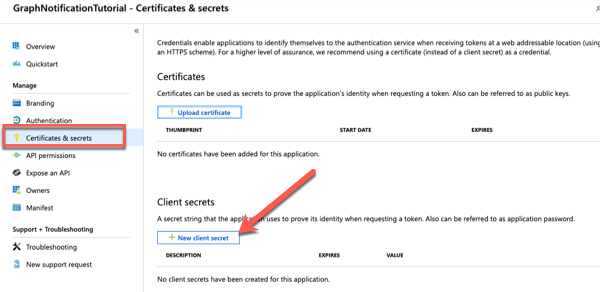
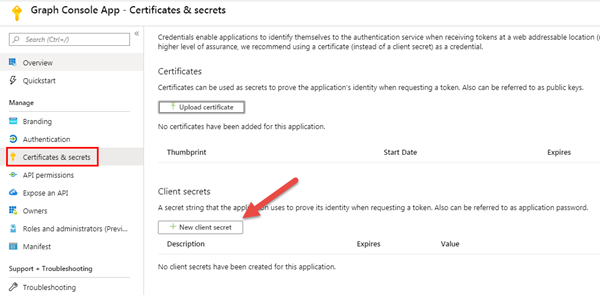
M365dev msgraph getting started fy2020q2 refresh
- fixed typos
- updated screenshots to current UX

diff --git a/learn-m365-pr/m365-developer/optimize-data-usage/includes/3-exercise-retrieve-control-information-returned-from-microsoft-graph.md b/learn-m365-pr/m365-developer/optimize-data-usage/includes/3-exercise-retrieve-control-information-returned-from-microsoft-graph.md
@@ -24,7 +24,7 @@ On the **Register an application** page, set the values as follows:
 
     Select **Register**.
 
-On the **GraphNotificationTutorial** page, copy the value of the **Application (client) ID** and **Directory (tenant) ID**; you will need them later in this exercise.
+On the **Graph Console App** page, copy the value of the **Application (client) ID** and **Directory (tenant) ID**; you will need them later in this exercise.
 
   ![Screenshot of the application ID of the new app registration](../media/aad-portal-newapp-details.png)
 
@@ -35,10 +35,6 @@ Select **New client secret**.
 ![Screenshot of the Add a client secret dialog](../media/aad-portal-newapp-secret.png)
 
 On the **Add a client secret** page, enter a value in **Description**, select one of the options for **Expires** and select **Add**.
-
-![Screenshot of the Add a client secret dialog](../media/aad-portal-newapp-secret-02.png)
-
-Copy the client secret value before you leave this page. You will need it in the next step.
 
   > [!IMPORTANT]
   > This client secret is never shown again, so make sure you copy it now.
@@ -67,7 +63,13 @@ When prompted for the type of permission, select **Application permissions**.
 
 Enter **User.R** in the **Select permissions** search box and select the **User.Read.All** permission, followed by the **Add permission** button at the bottom of the panel.
 
-At the bottom of the **API Permissions** panel, select the button **Grant admin consent for [tenant]**, followed by the **Yes** button to grant all users in your organization this permission.
+In the **Configured Permissions** panel, select the button **Grant admin consent for [tenant]**.
+
+![Screenshot of the Configured permissions panel](../media/aad-portal-newapp-permissions-05.png)
+
+In the consent dialog popup, select the **Accept** button to grant all users in your organization this permission.
+
+![Screenshot of the consent dialog](../media/aad-portal-newapp-permissions-06.png)
 
 ## Create .NET Core console application
 
@@ -94,7 +96,7 @@ Open the application in Visual Studio Code using the following command:
 code .
 ```
 
-If Visual Studio code displays a dialog box asking if you want to add required assets to the project, select **Yes**.
+If Visual Studio Code displays a dialog box asking if you want to add required assets to the project, select **Yes**.
 
 ### Update the console app to support Azure AD authentication
 
@@ -105,7 +107,7 @@ Create a new file named **appsettings.json** in the root of the project and add 
   "tenantId": "YOUR_TENANT_ID_HERE",
   "applicationId": "YOUR_APP_ID_HERE",
   "applicationSecret": "YOUR_APP_SECRET_HERE",
-  "redirectUri": "YOUR_REDIRECT_URI_HERE"
+  "redirectUri": "https://localhost"
 }
 ```
 
@@ -114,7 +116,6 @@ Update properties with the following values:
 - `YOUR_TENANT_ID_HERE`: Azure AD directory ID
 - `YOUR_APP_ID_HERE`: Azure AD client ID
 - `YOUR_APP_SECRET_HERE`: Azure AD client secret
-- `YOUR_REDIRECT_URI_HERE`: redirect URI you entered when creating the Azure AD app (*for example, https://localhost*)
 
 #### Create helper classes
 
@@ -189,10 +190,9 @@ namespace Helpers
 
 ### Incorporate Microsoft Graph into the console app
 
-Open the **Program.cs** file and add the following `using` statements to the top fo the file:
+Open the **Program.cs** file and add the following `using` statements to the top of the file:
 
 ```cs
-using System;
 using System.Collections.Generic;
 using Microsoft.Identity.Client;
 using Microsoft.Graph;
@@ -321,14 +321,12 @@ When the application runs, you'll see a list of users displayed. The query retri
 
 The current console application isn't efficient because it retrieves all information about all users in your organization but only displays three properties. The `$select` query parameter can limit the amount of data that is returned by Microsoft Graph, optimizing the query.
 
-Update the line that starts with `var results = client.Users` in the `Main` method with the following to limit the query to just two properties:
+Update the line that starts with `var graphRequest = client.Users` in the `Main` method with the following to limit the query to just two properties:
 
 ```cs
-var results = client.Users
+var graphRequest = client.Users
                     .Request()
-                    .Select(u => new { u.DisplayName, u.Mail })
-                    .GetAsync()
-                    .Result;
+                    .Select(u => new { u.DisplayName, u.Mail });
 ```
 
 Rebuild and rerun the console application by executing the following commands in the command line:
@@ -342,15 +340,13 @@ Now you see the `Id` property isn't populated with data as it wasn't included in
 
 ![Screenshot of the console application with the $select query parameters](../media/app-run-02.png)
 
-Let us further limit the results to just the first 15 results. Update the line that starts with `var results = client.Users` in the `Main` method with the following:
+Let us further limit the results to just the first 15 results. Update the line that starts with `var graphRequest = client.Users` in the `Main` method with the following:
 
 ```cs
-var results = client.Users
+var graphRequest = client.Users
                     .Request()
                     .Select(u => new { u.DisplayName, u.Mail })
-                    .Top(15)
-                    .GetAsync()
-                    .Result;
+                    .Top(15);
 ```
 
 Rebuild and rerun the console application by executing the following commands in the command line:
@@ -364,16 +360,14 @@ dotnet run
 
 Notice only 15 items are now returned by the query.
 
-Sort the results in reverse alphabetic order. Update the line that starts with `var results = client.Users` in the `Main` method with the following:
+Sort the results in reverse alphabetic order. Update the line that starts with `var graphRequest = client.Users` in the `Main` method with the following:
 
 ```cs
-var results = client.Users
+var graphRequest = client.Users
                     .Request()
                     .Select(u => new { u.DisplayName, u.Mail })
                     .Top(15)
-                    .OrderBy("DisplayName desc")
-                    .GetAsync()
-                    .Result;
+                    .OrderBy("DisplayName desc");
 ```
 
 Rebuild and rerun the console application by executing the following commands in the command line:
@@ -385,18 +379,15 @@ dotnet run
 
 ![Screenshot of the console application with the $orderby query parameters](../media/app-run-04.png)
 
-Further refine the results by selecting Users who's surname starts with A, B, or C. You'll need to remove the `$orderby` query parameter added previously as the Users endpoint doesn't support combining the `$filter` and `$orderby` parameters. Update the line that starts with `var results = client.Users` in the `Main` method with the following:
+Further refine the results by selecting Users who's surname starts with A, B, or C. You'll need to remove the `$orderby` query parameter added previously as the Users endpoint doesn't support combining the `$filter` and `$orderby` parameters. Update the line that starts with `var graphRequest = client.Users` in the `Main` method with the following:
 
 ```cs
-new QueryOption("$filter","startsWith(surname,'A') or startsWith(surname,'B') or startsWith(surname,'C')")
-var results = client.Users
+var graphRequest = client.Users
                     .Request()
                     .Select(u => new { u.DisplayName, u.Mail })
                     .Top(15)
                     // .OrderBy("DisplayName desc)
-                    .Filter("startsWith(surname,'A') or startsWith(surname,'B') or startsWith(surname,'C')")
-                    .GetAsync()
-                    .Result;
+                    .Filter("startsWith(surname,'A') or startsWith(surname,'B') or startsWith(surname,'C')");
 ```
 
 Rebuild and rerun the console application by executing the following commands in the command line:

diff --git a/learn-m365-pr/m365-developer/optimize-data-usage/includes/4-expand-related-entities-search-content-microsoft-graph.md b/learn-m365-pr/m365-developer/optimize-data-usage/includes/4-expand-related-entities-search-content-microsoft-graph.md
@@ -11,7 +11,7 @@ Normally, you can query either the properties of a resource or one of its relati
 The `$expand` operator, can be used to expand a collection of items, saving you from issuing additional requests.
 
 ```http
-https://graph.microsoft.com/v1.0/me/drive/root/$expand=children
+https://graph.microsoft.com/v1.0/me/drive/root?$expand=children
 ```
 
 In this example, you've requested Microsoft Graph to automatically include the children collection from the drive/root endpoint. The response will include all the default properties for the collection of files and folders within the root folder of the user’s OneDrive.
@@ -35,7 +35,7 @@ Another optimization option supported by Microsoft Graph is use of the `$filter`
 The syntax of the `$filter` query parameter follows the format of passing in an equality function with two parameters. The first parameter is the field to filter while the second parameter is the value to filter on.
 
 ```http
-https://graph.microsoft.com/v1.0/users?$filter=eq(displaName,’Bowen’)
+https://graph.microsoft.com/v1.0/users?$filter=displayName eq 'Megan Bowen'
 ```
 
 Most logical operators are supported, such as:
@@ -53,7 +53,7 @@ Most logical operators are supported, such as:
 The operator `startswith()` is supported by most endpoints in Microsoft Graph, but not all. Refer to the documentation for Microsoft Graph for full details.
 
 ```http
-https://graph.microsoft.com/v1.0/users?$filter=startswith(displayName,’J’)
+https://graph.microsoft.com/v1.0/users?$filter=startswith(displayName,'J')
 ```
 
 ## Find entities with search
@@ -61,8 +61,8 @@ https://graph.microsoft.com/v1.0/users?$filter=startswith(displayName,’J’)
 Developers can also use the `$search` query parameter to search for content against the people & message endpoints.
 
 ```http
-https://graph.microsoft.com/v1.0/users?$search=“wilke”
-https://graph.microsoft.com/v1.0/users?$search=“body:exciting”
+https://graph.microsoft.com/v1.0/me/contacts?$search="wilke"
+https://graph.microsoft.com/v1.0/me/messages?$search="body:Northwind"
 ```
 
 Search is limited to returning 250 results.
@@ -72,11 +72,11 @@ Search can't be combined with the `$filter` or `$orderby` operators.
 When searching against the messages endpoint, if no property is specified, it defaults to searching the **from**, **subject**, and **body** property. You can search on specific fields as well, such as the **cc** property:
 
 ```http
-https://graph.microsoft.com/v1.0/users?$search=“cc:wilke”
+https://graph.microsoft.com/v1.0/me/messages?$search="cc:wilke"
 ```
 
 Like the `$filter` query parameter, the `$search` query parameter can be combined with the `$select` query parameter to limit the data returned.
 
 ```http
-https://graph.microsoft.com/v1.0/users?$search=“cc:wilke”&$select=subject,toRecipients
+https://graph.microsoft.com/v1.0/me/messages?$search="cc:wilke"&$select=subject,toRecipients
 ```

diff --git a/learn-m365-pr/m365-developer/optimize-data-usage/includes/5-exercise-expand-related-entities-search-content-microsoft-graph.md b/learn-m365-pr/m365-developer/optimize-data-usage/includes/5-exercise-expand-related-entities-search-content-microsoft-graph.md
@@ -31,7 +31,7 @@ When prompted for the type of permission, select **Application permissions**.
 
 Enter **Group.R** in the **Select permissions** search box and select the **Group.Read.All** permission, followed by the **Add permission** button at the bottom of the panel.
 
-At the bottom of the **API Permissions** panel, select the button **Grant admin consent for [tenant]**, followed by the **Yes** button to grant all users in your organization this permission.
+In the **Configured Permissions** panel, select the button **Grant admin consent for [tenant]**, and then select the **Accept** button in the consent dialog popup to grant all users in your organization this permission.
 
 ### Update the console app to use the $expand query parameter
 
@@ -39,15 +39,7 @@ You'll modify the code that follows this line to obtain a list of all groups in 
 
 Open the .NET console app in Visual Studio Code and then open the **Program.cs** file.
 
-Locate the line in the `Main()` method that was obtaining an instance of the Graph client:
-
-```cs
-var client = GetAuthenticatedGraphClient(config);
-```
-
-The code that immediately follows this line creates a collection of `QueryOption` objects. Remove all items in this collection except the `$top` parameter. Set the value of the `$top` parameter to **5**.
-
-Next, update the query that previously retrieved users to request groups. Notice the addition of the `.Expand()` method that instructs Microsoft Graph to include the members collection for each group:
+Locate the line that starts with `var graphRequest = client.Users` in the `Main` method. Update this line of code with the following to request groups instead of users. Notice the addition of the `.Expand()` method that instructs Microsoft Graph to include the members collection for each group:
 
 ```cs
 var graphRequest = client.Groups.Request().Top(5).Expand("members");

diff --git a/learn-m365-pr/m365-developer/optimize-data-usage/includes/2-microsoft-graph-query-parameters.md b/learn-m365-pr/m365-developer/optimize-data-usage/includes/2-microsoft-graph-query-parameters.md
@@ -28,7 +28,7 @@ Microsoft Graph’s REST API confirms to the OData v4 protocol. One aspect of th
 
 Each endpoint exposed by Microsoft Graph has varying support for different query parameters. For example, the `$count` query parameter is supported by the **/contacts** endpoint, but it isn’t supported for directory objects like users and groups.
 
-Query parameters are added to the query string portion of a URL and have a `$` prefix. Each parameter has a different syntax for usage. For example, the `$count` query parameter, when set to `TRUE`, will tell Microsoft Graph to only report the number of items in the collection instead of returning all the data in the collection. This `$count` parameter dramatically reduces the amount of data returned by the service, reducing the work on Microsoft Graph and bandwidth consumed by your application.
+Query parameters are added to the query string portion of a URL and have a `$` prefix. Each parameter has a different syntax for usage. For example, the `$count` query parameter, when set to `true`, will tell Microsoft Graph to report the total number of items in the collection regardless of how many items are returned by the request. In certain situations the `$count` parameter can dramatically reduce the amount of data returned by the service, reducing the work on Microsoft Graph and bandwidth consumed by your application.
 
 ## Control the amount of information returned in queries
 
@@ -47,7 +47,7 @@ https://graph.microsoft.com/v1.0/users?$top=50
 The `$skip` parameter enables you to skip the first # of results in the response.
 
 ```http
-https://graph.microsoft.com/v1.0/users?$skip=10
+https://graph.microsoft.com/v1.0/me/contacts?$skip=10
 ```
 
 ### Requesting paged results
